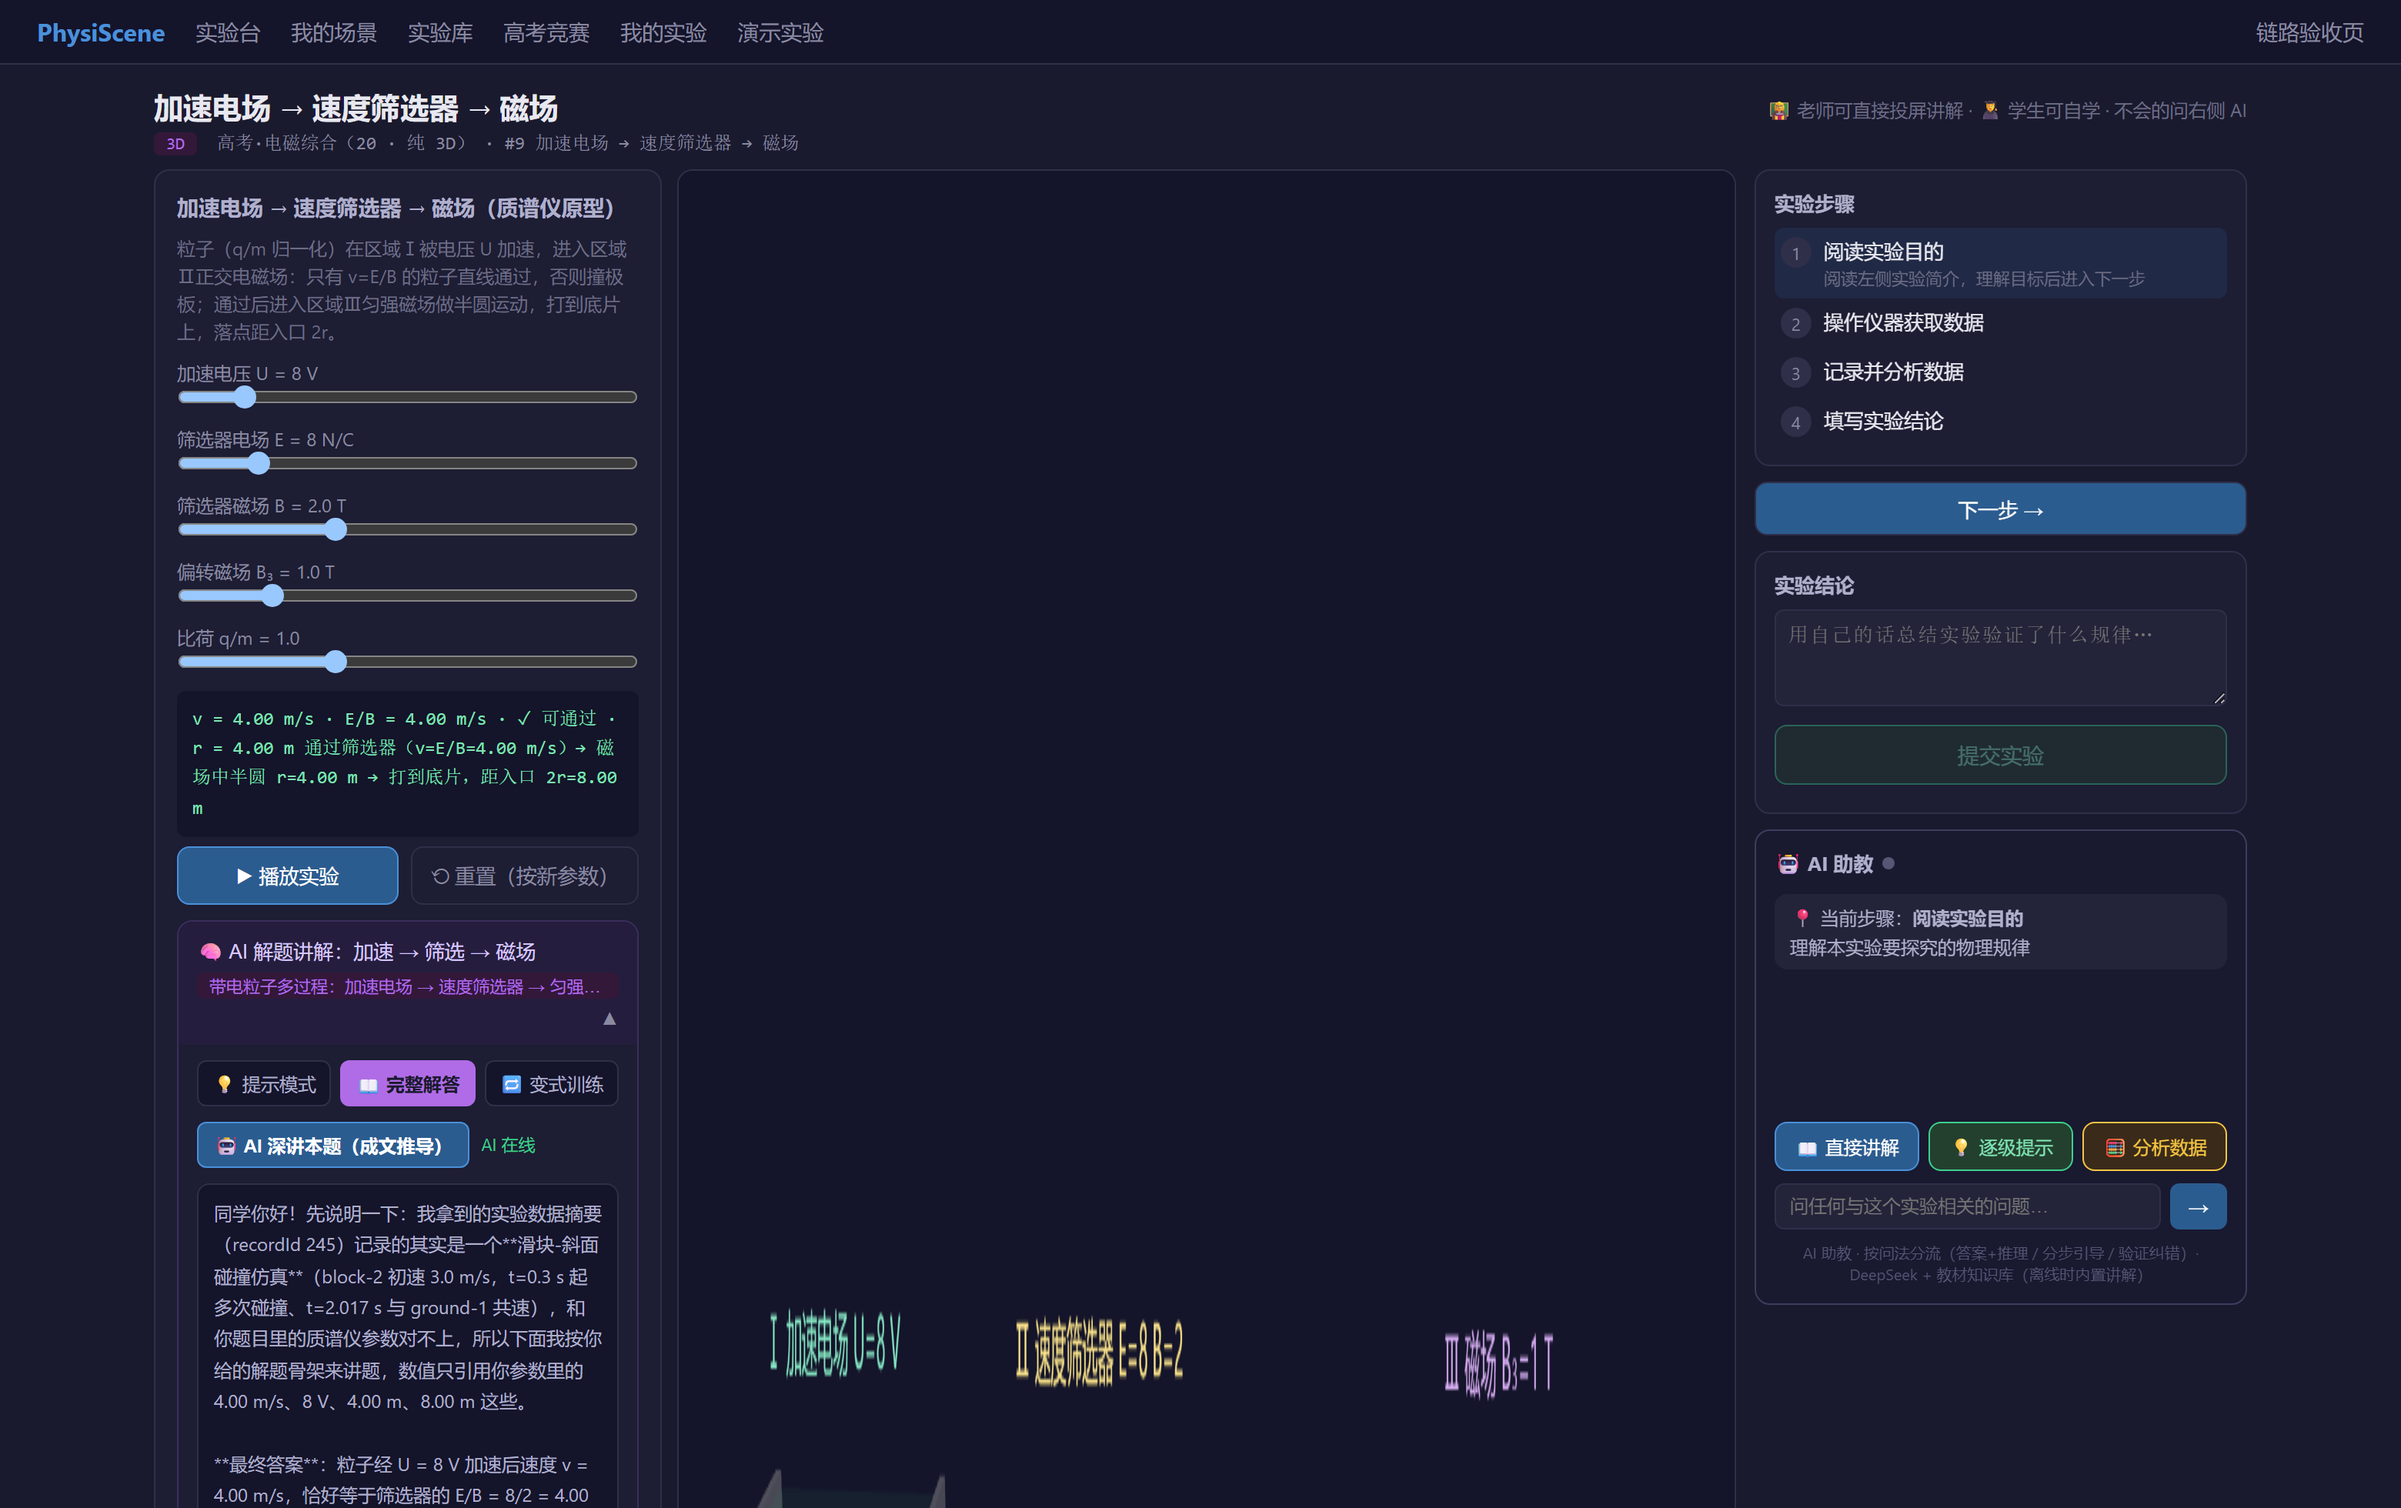
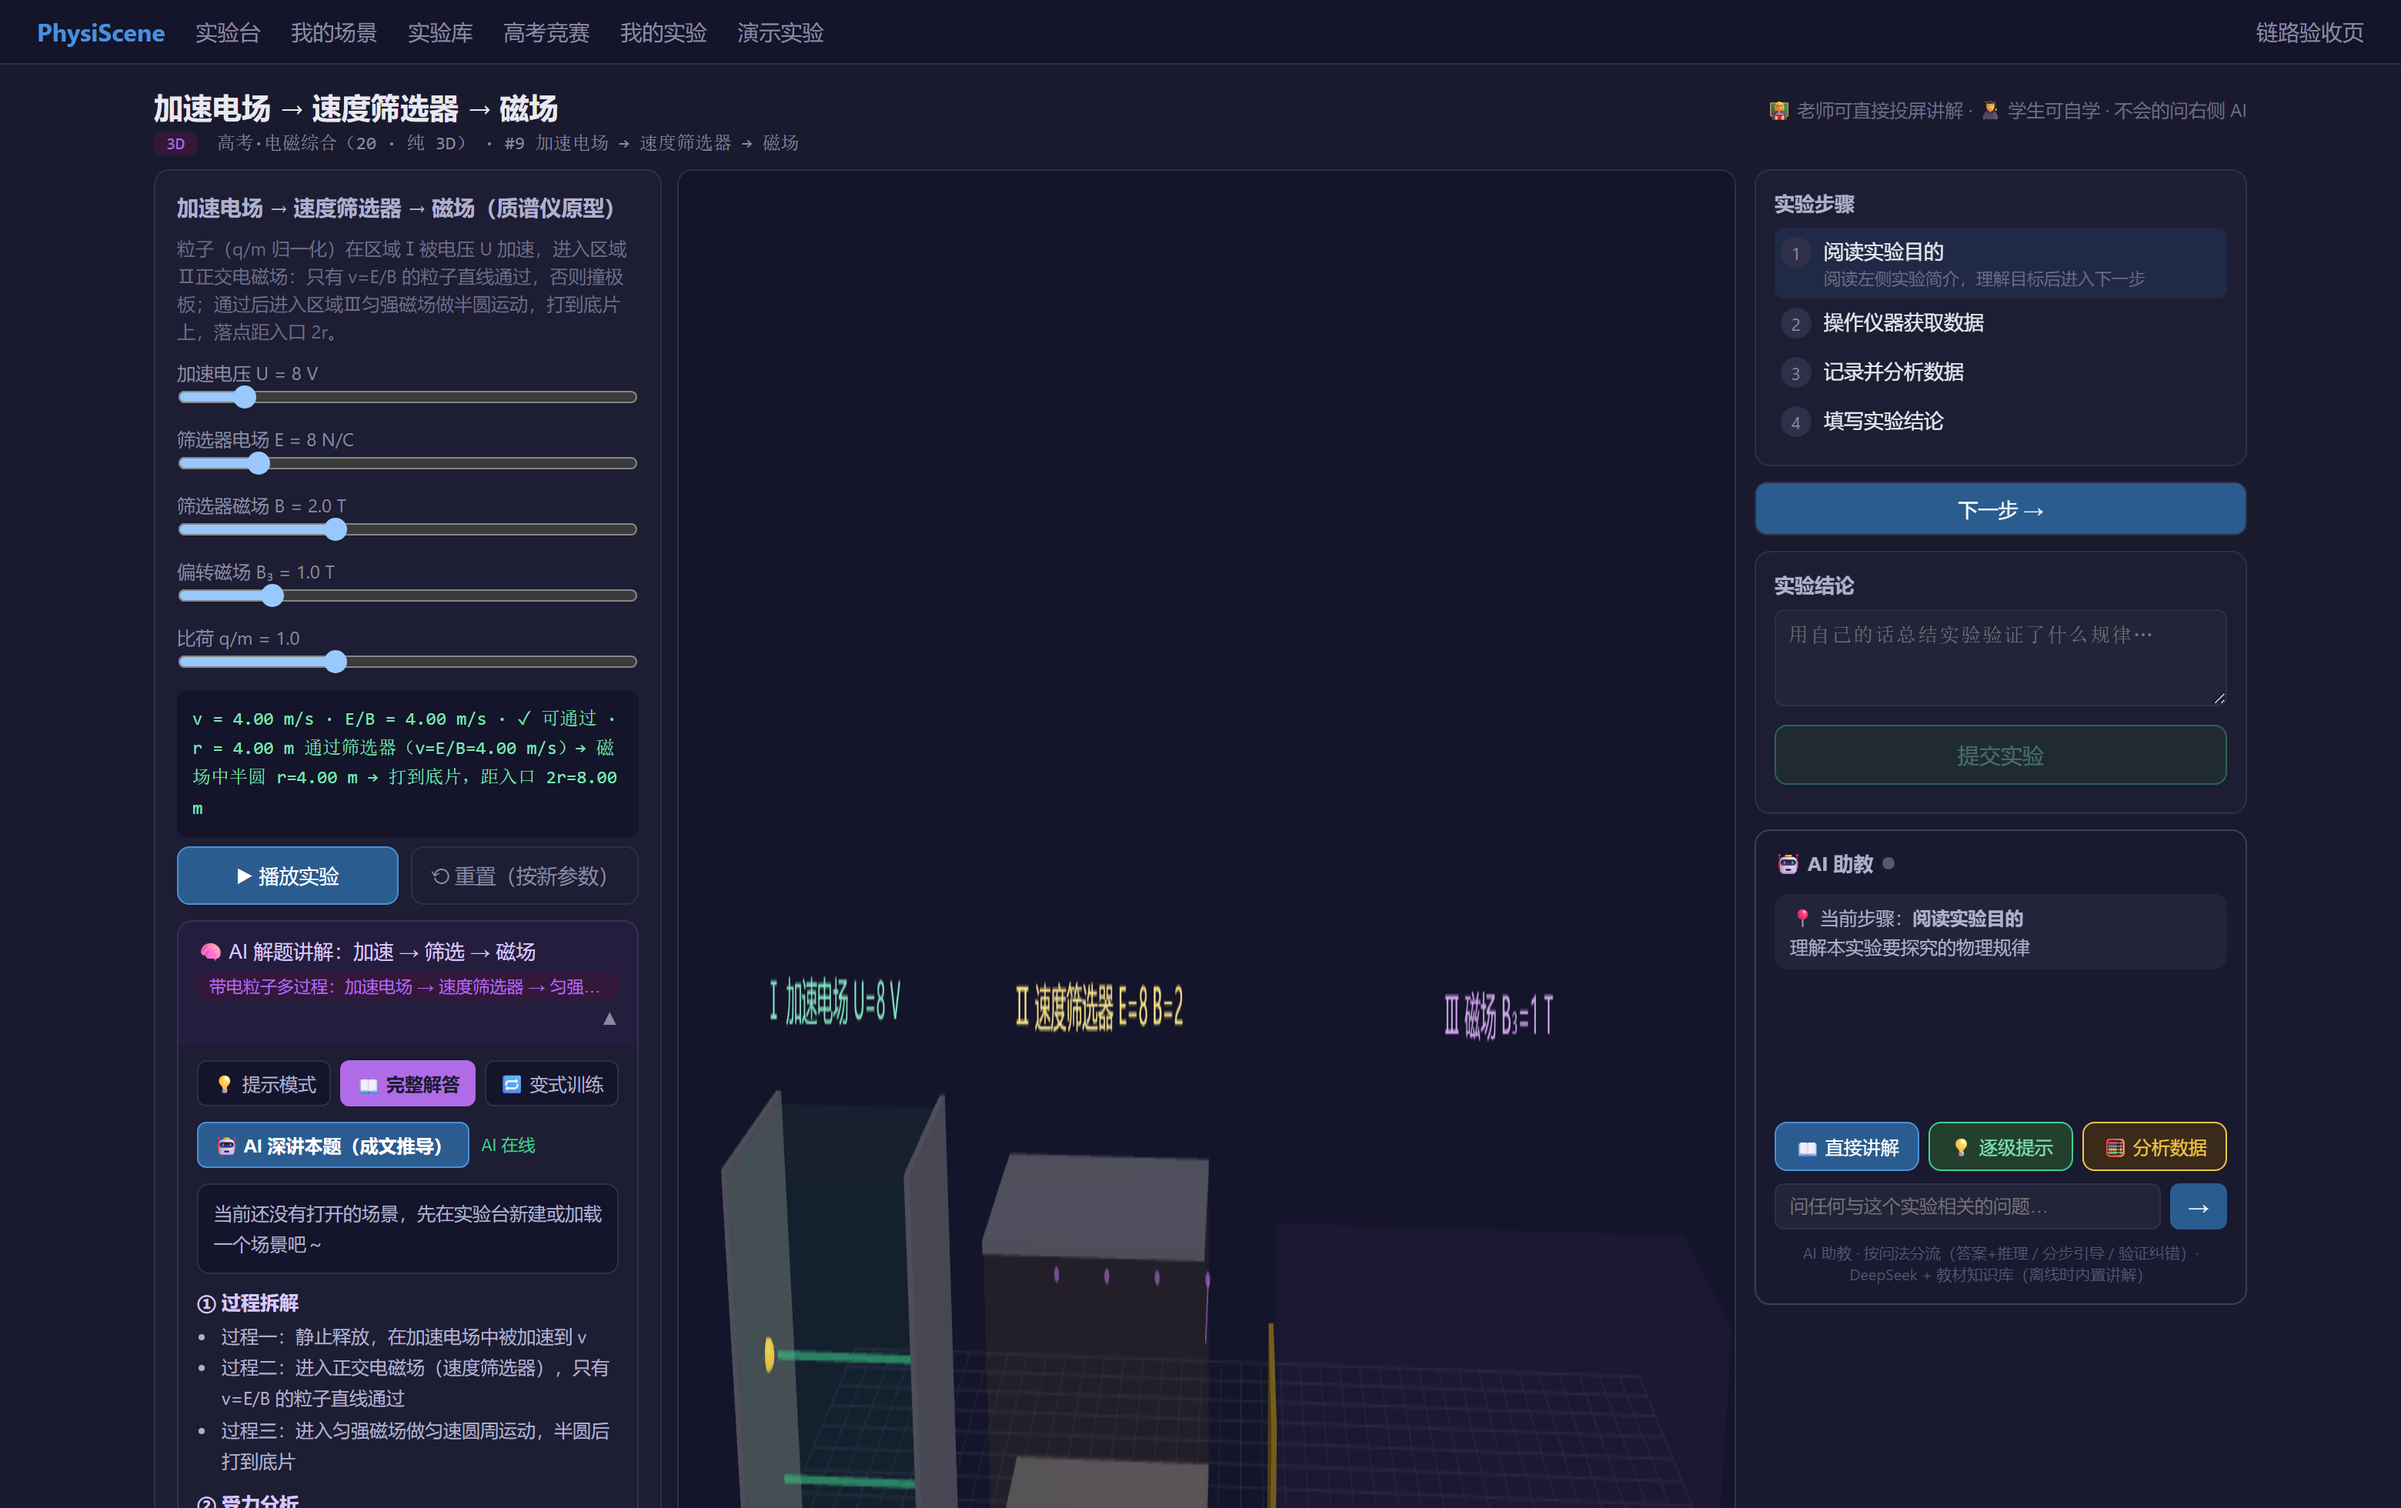
chore(今晚包P2+P3): 视觉截图刷新（文案变更后）+ GitHub 六步终检报告——历史零密钥零版权，可推送

diff --git a/scripts/soak_tonight.py b/scripts/soak_tonight.py
@@ -1,0 +1,71 @@
+# -*- coding: utf-8 -*-
+"""P1 压缩浸泡（1h）：REST 仿真循环 + WS 循环收帧 + AI（mock）每 10 分钟 + 每 10 分钟采样（6 点 ≥4）。
+断言（今晚口径）：后 2 点均值 ≤ 前 2 点均值 × 1.15。"""
+import json, time, socket, base64, os, subprocess, urllib.request, urllib.parse
+
+API = "http://localhost:8080"
+OUT = r"E:\Program\physicene-backups\soak-tonight.csv"
+
+def hj(path, method="GET", body=None, headers=None, timeout=60):
+    h = {"Content-Type": "application/json"}; h.update(headers or {})
+    req = urllib.request.Request(API + path, method=method, data=json.dumps(body).encode() if body else None, headers=h)
+    with urllib.request.urlopen(req, timeout=timeout) as r:
+        return json.loads(r.read().decode())
+
+def heap():
+    try:
+        return round(hj("/actuator/metrics/jvm.memory.used?tag=area:heap", timeout=10)["measurements"][0]["value"] / 1048576, 1)
+    except Exception:
+        return -1
+
+tok = hj("/api/auth/login", "POST", {"username": "demo", "password": "demo1234"})["data"]["token"]
+AUTH = {"Authorization": "Bearer " + tok}
+EL = [{"id": "g", "type": "wall", "position": {"x": 0, "y": -1}, "angle": 0, "properties": {"friction": 0.1}, "params": {}, "isFixed": True},
+      {"id": "b", "type": "cube", "position": {"x": 0, "y": 0.1}, "angle": 0, "properties": {"mass": 1, "friction": 0.1}, "params": {}, "initialState": {"velocity": {"x": 3, "y": 0}}}]
+
+def ws_round():
+    """一条 100s 仿真 + 裸 WS 收帧到断开，返回帧数"""
+    try:
+        r = hj("/api/simulations/run", "POST", {"elements": EL, "config": {"maxDuration": 100}}, headers=AUTH)
+        u = urllib.parse.urlparse(f"http://localhost:8080{r['data']['wsUrl']}?token={tok}")
+        s = socket.create_connection((u.hostname, u.port), timeout=20)
+        key = base64.b64encode(os.urandom(16)).decode()
+        s.send((f"GET {u.path}?{u.query} HTTP/1.1\r\nHost: {u.hostname}:{u.port}\r\nUpgrade: websocket\r\n"
+                f"Connection: Upgrade\r\nSec-WebSocket-Key: {key}\r\nSec-WebSocket-Version: 13\r\n\r\n").encode())
+        s.settimeout(60)
+        frames = 0
+        while True:
+            chunk = s.recv(65536)
+            if not chunk:
+                break
+            frames += chunk.count(b'"frame"')
+        s.close()
+        return frames
+    except Exception:
+        return 0
+
+samples, ws_total, ai_calls, sims = [], 0, 0, 0
+t0 = time.time()
+while time.time() - t0 < 3600:
+    ws_total += ws_round(); sims += 1
+    if int(time.time() - t0) % 600 < 105:
+        try:
+            hj("/api/v1/agent/chat", "POST", {"userId": 900010, "sessionId": "soak1h", "message": "soak mock: 什么是动量定理"}, headers=AUTH)
+            ai_calls += 1
+        except Exception:
+            pass
+    h = heap()
+    samples.append((round(time.time() - t0), h))
+    print({"t": samples[-1][0], "heap": h, "ws": ws_total}, flush=True)
+    time.sleep(max(5, 600 - 105))
+
+with open(OUT, "w", encoding="utf-8") as f:
+    f.write("t,heap_mb\n")
+    for t, h in samples:
+        f.write(f"{t},{h}\n")
+    f.write(f"# sims={sims} ws_frames={ws_total} ai={ai_calls}\n")
+first2 = sum(h for _, h in samples[:2]) / 2
+last2 = sum(h for _, h in samples[-2:]) / 2
+ratio = last2 / first2 if first2 else 0
+print(f"TONIGHT-SOAK-DONE n={len(samples)} first2={first2:.1f} last2={last2:.1f} "
+      f"ratio={ratio:.3f} {'PASS<=1.15' if last2 <= first2 * 1.15 else 'FAIL'}", flush=True)

diff --git a/docs/GitHub-上传检查报告.md b/docs/GitHub-上传检查报告.md
@@ -1,20 +1,23 @@
-# GitHub 上传检查报告（阶段 5.6 · 2026-10-11）
+# GitHub 上传检查报告（最终版 · 今晚包 P3 · 2026-10-12）
 
-## 六步证据
-
-| 步 | 检查 | 结果 |
-|---|---|---|
-| 5.1 | .gitignore 三类排除 | ✅ 版权资料（resources/textbooks|retypeset——目录从未入库，规则已加为防御）、密钥（.env/.env.*，example 白名单）、数据（*.sql.gz/备份/日志） |
-| 5.2 | 历史扫描 | ✅ `git log --all -- resources/` 空（从未跟踪）；`-S DEEPSEEK_API_KEY` 命中仅为文档**变量名**引用（deployment/security.md 合法说明）；`-S "sk-"`（py/ts/properties）空；HEAD `git grep sk-` 空。**无需 filter-repo** |
-| 5.3 | LICENSE | ✅ MIT（任务包默认；如需 Apache/私有改 LICENSE 单文件即可） |
-| 5.4 | README | ✅ 项目/功能/依赖/运行/目录/测试六节 + 截图 |
-| 5.5 | 大文件 | ✅ 最大 3.5MB（visual-verification webm 证据）；无 >100MB，无需 LFS |
-| 5.6 | 推送前核对 | ☐ 用户执行：`git remote add origin <url> && git push -u origin feature/exp-b8`（或并 main 后推） |
+| 步 | 检查 | 结果 | 证据 |
+|---|---|---|---|
+| 1 | .gitignore 三类防御 | ✅ | 版权（resources/textbooks|retypeset，目录从未入库+规则防御）、密钥（.env/.env.* + !example 白名单）、数据（*.sql.gz/备份/日志）——5 条规则实测 |
+| 2 | 历史扫描 | ✅ | `--all -- resources/` **0 命中**（从未跟踪）；`-S apiKey` 仅文档变量名引用（security/deployment 合法说明）；`-S "sk-"` 代码文件 0 命中；HEAD `git grep -rE "sk-[A-Za-z0-9]{20}"` **空**。**无需 filter-repo** |
+| 3 | LICENSE | ✅ | MIT（默认口径；换 Apache/私有只需换单文件） |
+| 4 | README | ✅ | 项目+截图/依赖/运行（含 AI 服务）/目录/AI 配置（BYOK）/测试——BYOK 章节含申请/填 key/无 key 表现/费用限流 |
+| 5 | 大文件 | ✅ | 最大 3.5MB（visual-verification webm 证据）；无 >100MB，无需 LFS |
+| 6 | 推送前复核 | ☐ 用户执行 | `git grep -rE "sk-[A-Za-z0-9]{20}"` 复跑 + push 命令见下 |
 
 ## 遗留风险
 
-1. `git push` 前建议重跑 `git grep -rE "sk-[A-Za-z0-9]{20}"`（防新提交带入）
-2. 教材 PDF（TEXTBOOKS_DIR）本地资源与仓库解耦 ✓，克隆方需自备教材并 build_kb
-3. demo/demo1234 种子号随 V2 迁移入库（教学演示用；生产改密见 security.md §1）
+1. demo/demo1234 种子号随迁移入库（教学演示用；生产改密见 security.md §1）
+2. 教材 PDF 与仓库解耦 ✓——克隆方自备教材并 build_kb（README 有步骤）
+3. push 前新提交需复跑密钥 grep（防新增带入）
 
-**结论：可推送。**
+## 结论：**可推送**
+
+```bash
+git remote add origin <你的仓库 URL>
+git push -u origin feature/exp-b8      # 或先并 main 再推
+```

diff --git a/docs/完整收尾进度-v3.md b/docs/完整收尾进度-v3.md
@@ -8,3 +8,4 @@
 | 10-12 | 前置 4：README「AI 配置」章节 | ✅ | 本提交 |
 | 10-12 | 前置 5：决策 #3 关闭（BYOK 定案） | ✅ | 本提交 |
 | 10-12 | Stage B v3：严格断言稳态段 0.971 通过；报告更新 | ✅ | ba94e77+本提交 |
+| 10-12 | P2 截图刷新 + P3 GitHub 六步终检（可推送） | ✅ | 本提交 |
